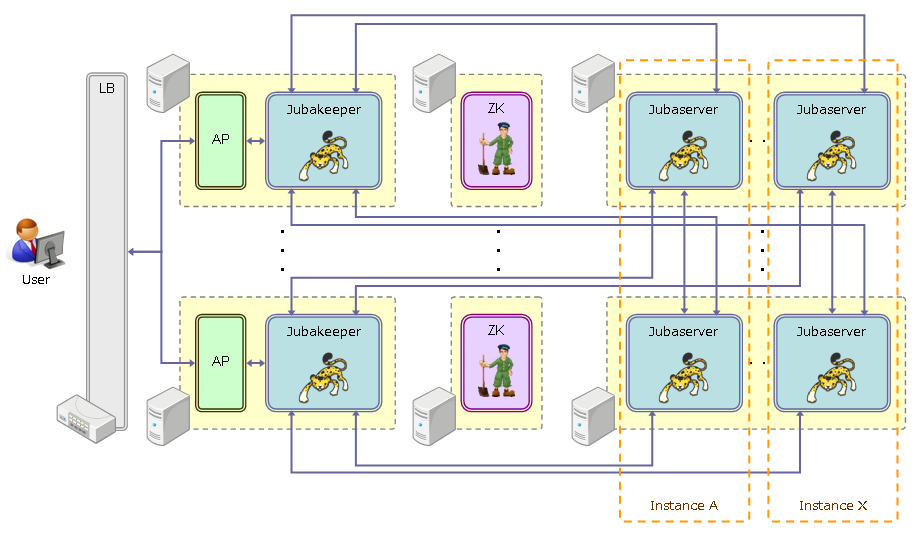
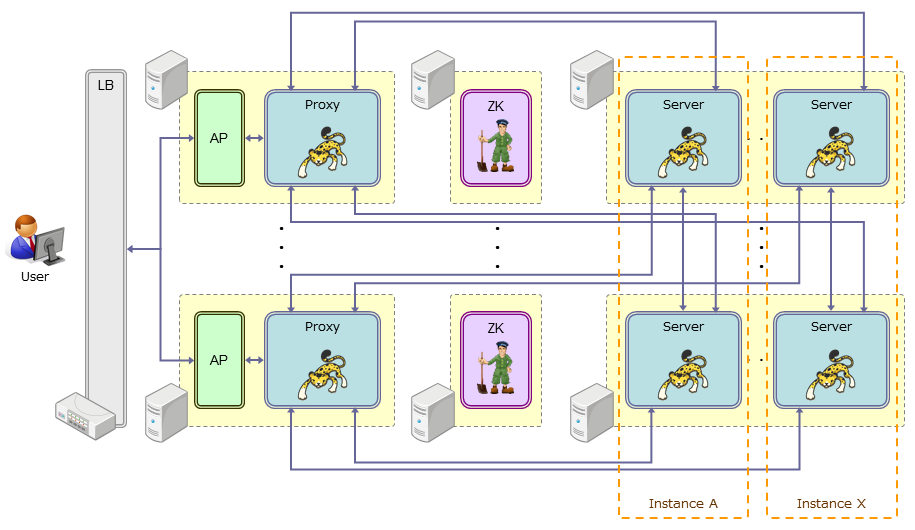
Renamed to proxy from keeper in en/admin.rst

Changed region(s): [[0.0, 0.0, 1.0, 0.9962]]

diff --git a/source/en/admin.rst b/source/en/admin.rst
@@ -17,15 +17,15 @@ This is the process configuration that we recommend.
    :width: 90 %
    :alt: process configuration
 
-Jubatus Keepers
+Jubatus Proxies
 ~~~~~~~~~~~~~~~
 
-To keep operation and implementation of the client application simple, we recommend assigning one keeper for each instance of the application.
+To keep operation and implementation of the client application simple, we recommend assigning one Jubatus Proxy for each instance of the application.
 
-In case that the client application cannot connect to the keeper (e.g., the keeper is down), it is necessary to consider the way to recover, depending on your requirement of service. For example:
+In case that the client application cannot connect to the Jubatus Proxy (e.g., the Jubatus Proxy is down), it is necessary to consider the way to recover, depending on your requirement of service. For example:
 
-#. Monitor the keeper processes. When the keeper goes down, block the access to the application from users.
-#. Switch over to another keeper.
+#. Monitor the Jubatus Proxy processes. When the Jubatus Proxy goes down, block the access to the application from users.
+#. Switch over to another Jubatus Proxy.
 
 Jubatus Servers
 ~~~~~~~~~~~~~~~
